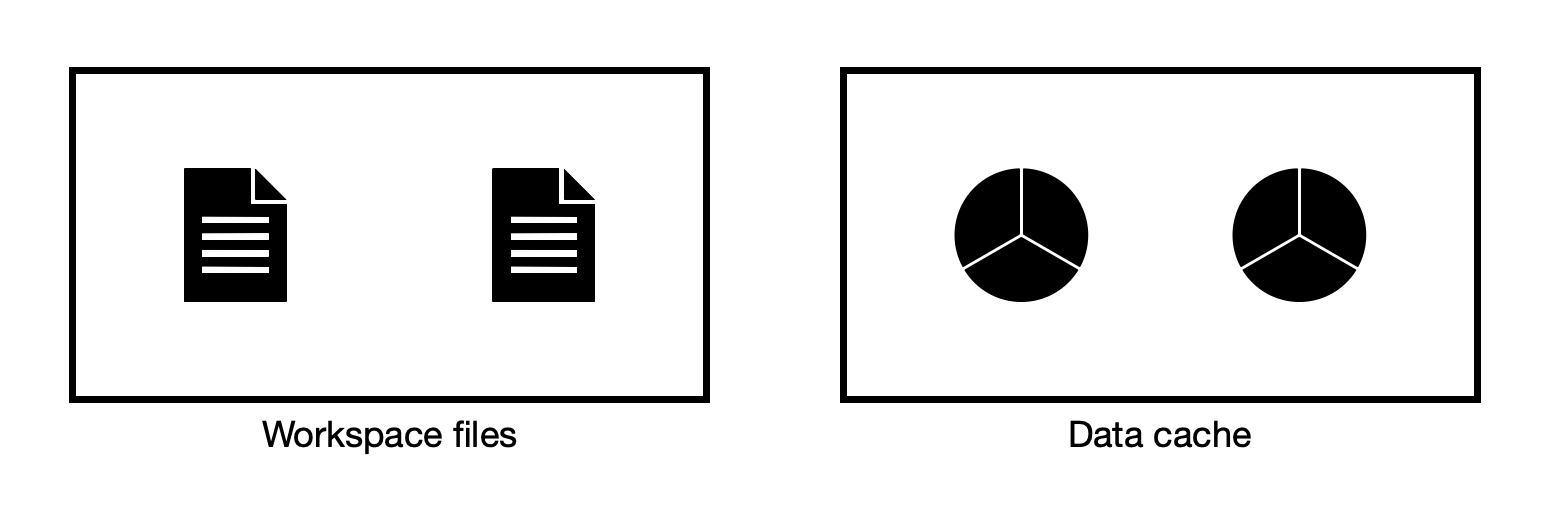
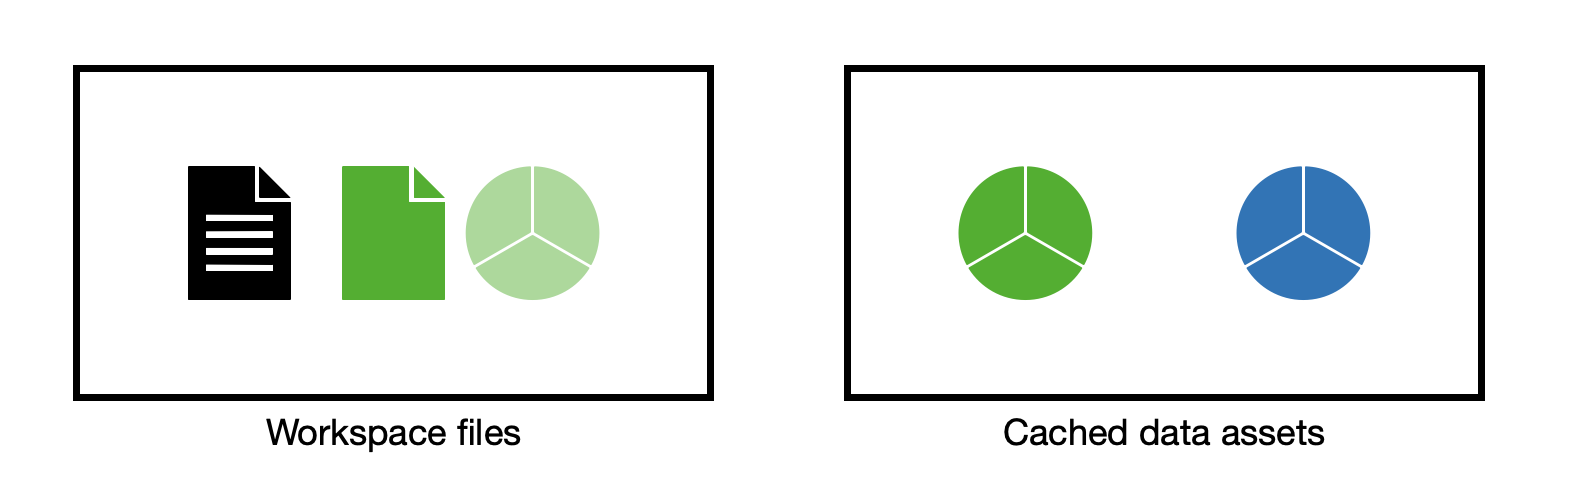
guide: update 2 figs and add 1 more (Data Mgmt)

diff --git a/content/docs/user-guide/data-management/index.md b/content/docs/user-guide/data-management/index.md
@@ -14,18 +14,17 @@ storage locations_
 <abbr>DVC projects</abbr> separate data from code by replacing large files, data
 artifacts, ML models, etc. in your <abbr>workspace</abbr> with small
 [metafiles]; We call this process _codification_ (of the data). The actual file
-contents are cached in an independent data store and linked to your project.
+contents are cached in an independent data store and [linked] to your project.
 
 ![Code vs. data](/img/code-vs-data.png) _Separating code from data_
 
 <admon type="info">
 
-In order to [avoid duplicate content], and to support
+In order to [avoid duplicate content][linked], and to support
 [versioning features](#data-versioning), files and directories are reorganized
 in the cache into a [content-addressable structure].
 
-[avoid duplicate content]:
-  /doc/user-guide/data-management/large-dataset-optimization
+[linked]: /doc/user-guide/data-management/large-dataset-optimization
 
 </admon>
 
@@ -72,9 +71,8 @@ your repo can be handled with standard [Git workflows] (commits, branching, pull
 requests, etc.). This way machine learning teams can apply mature software
 engineering practices.
 
-[version control]:
-  https://www.atlassian.com/git/tutorials/what-is-version-control
-[git workflows]: https://www.atlassian.com/git/tutorials/comparing-workflows
+![Versioned ML project](/img/versioned-project.png) _Navigate versions with Git
+commits_
 
 <admon icon="book">
 
@@ -83,6 +81,10 @@ Refer to [Versioning Data and Models] to learn more.
 [versioning data and models]: /doc/use-cases/versioning-data-and-models
 
 </admon>
+
+[version control]:
+  https://www.atlassian.com/git/tutorials/what-is-version-control
+[git workflows]: https://www.atlassian.com/git/tutorials/comparing-workflows
 
 <!--
 ## Cloud versioning
